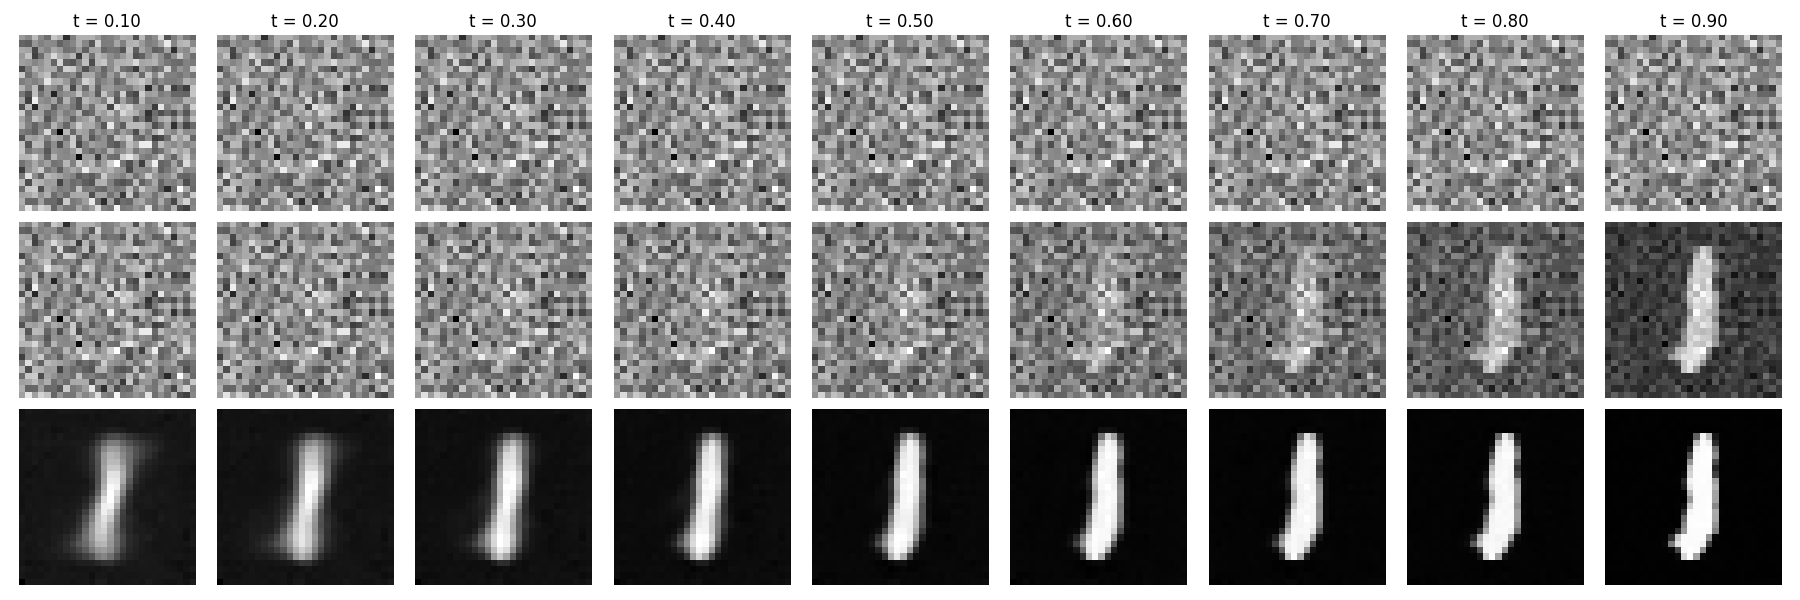
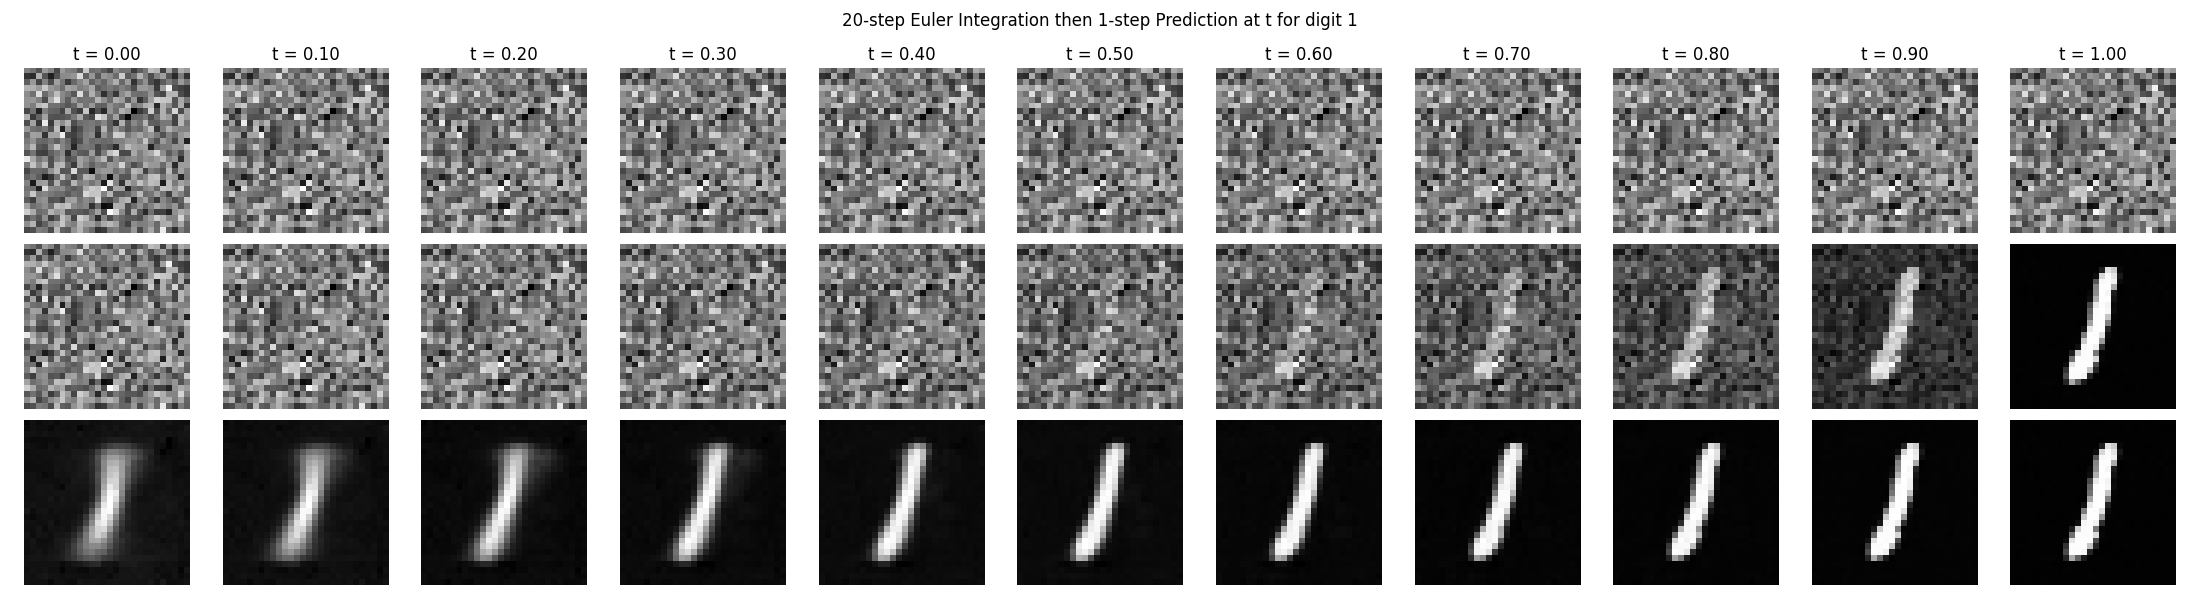
update mnist results with t=0 and 1

diff --git a/MNIST_Experiments/Plots.py b/MNIST_Experiments/Plots.py
@@ -29,7 +29,7 @@ def generate_trajectory(model, digit, x, t, device):
 def plot_trajectory(model, digit, device):
     '''Euler up to defined timestep and the 1-step prediction'''
     # Define multiple trajectories with different intermediate timesteps.
-    t_list = [list(np.linspace(0, inter, 20))+[1] for inter in np.linspace(0.1, 0.9, 9)]
+    t_list = [list(np.linspace(0, inter, 20))+[1] for inter in np.linspace(0.0, 1.0, 11)]
     trajectories = []
     x_init = torch.randn(1, 1, 28, 28, device=device)   # Fixed initial sample.
     for t in t_list:
@@ -53,6 +53,7 @@ def plot_trajectory(model, digit, device):
             # Add a title to the top row for each column.
             if i == 0:
                 ax.set_title(f"t = {t_list[j][-2]:.2f}")
+    plt.suptitle(f"20-step Euler Integration then 1-step Prediction at t for digit {digit}")
     plt.tight_layout()
     plt.savefig(f'MNIST_Experiments/Output/trajectory_digit_{digit}.png')
 
